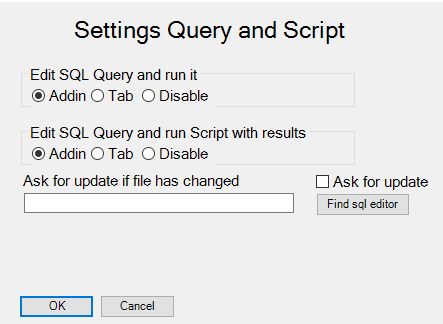
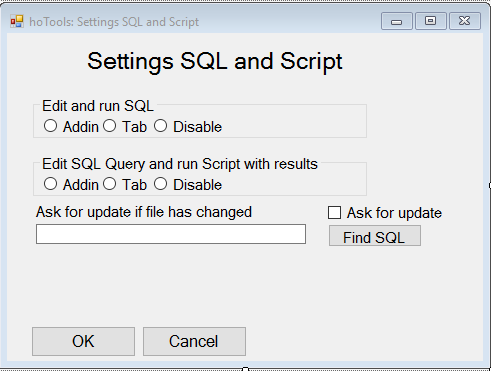
Layout and text

Changed region(s): [[0.0, 0.0, 1.0, 1.0]]

diff --git a/ActiveX/src/SettingsQuery/frmQueryAndScript.Designer.cs b/ActiveX/src/SettingsQuery/frmQueryAndScript.Designer.cs
@@ -163,8 +163,8 @@
             this.chkIsAskForUpdate.Size = new System.Drawing.Size(122, 22);
             this.chkIsAskForUpdate.TabIndex = 212;
             this.chkIsAskForUpdate.Text = "Ask for update";
-            this.toolTip1.SetToolTip(this.chkIsAskForUpdate, "If checked: Query will ask to update  query display content if file has changed o" +
-        "utside.");
+            this.toolTip1.SetToolTip(this.chkIsAskForUpdate, "If checked: SQL will ask to update  query display content if file has changed out" +
+        "side.");
             this.chkIsAskForUpdate.UseVisualStyleBackColor = true;
             // 
             // txtSqlEditor
@@ -186,7 +186,7 @@
             this.btnSqlEditor.TabIndex = 215;
             this.btnSqlEditor.Text = "Find SQL editor";
             this.toolTip1.SetToolTip(this.btnSqlEditor, "Click to specify your beloved SQL editor. If nothing is entered hoTools uses the " +
-        "Windows preferences for *.sql type.");
+        "Windows preferences for *.sql type.\r\n\r\nCurrently not supported.");
             this.btnSqlEditor.UseVisualStyleBackColor = true;
             // 
             // groupBox1
@@ -245,7 +245,7 @@
             this.Controls.Add(this.btnCancel);
             this.Controls.Add(this.btnOk);
             this.Name = "FrmQueryAndScript";
-            this.Text = "hoTools: Settings Query and Script";
+            this.Text = "hoTools: Settings SQL and Script";
             this.groupBox1.ResumeLayout(false);
             this.groupBox1.PerformLayout();
             this.groupBox2.ResumeLayout(false);
